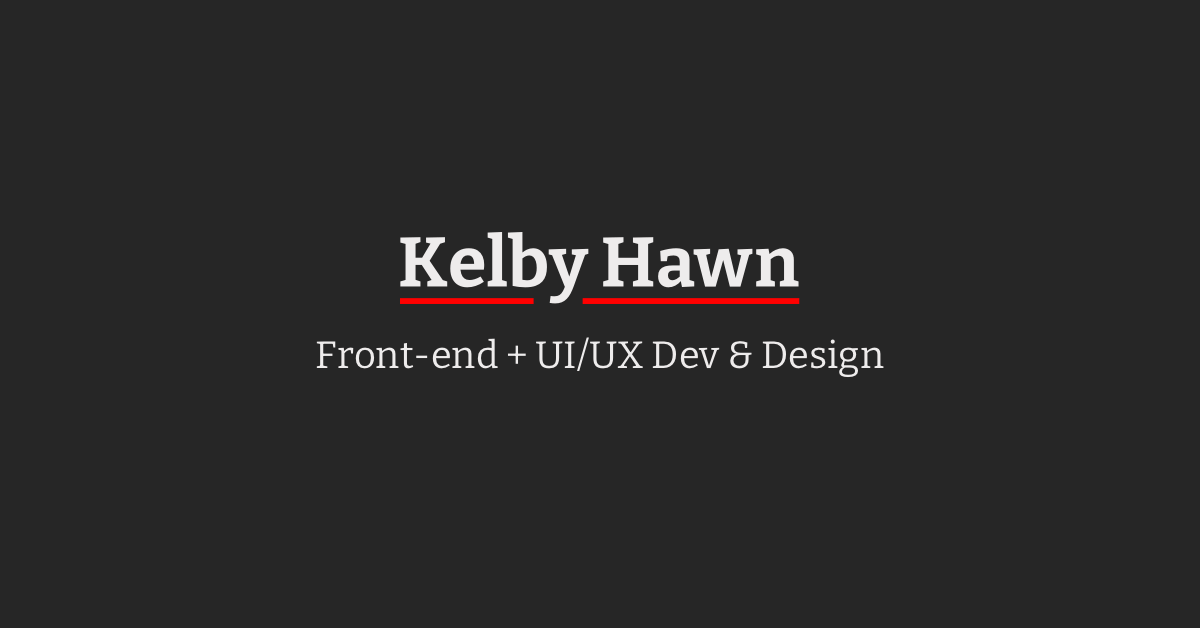
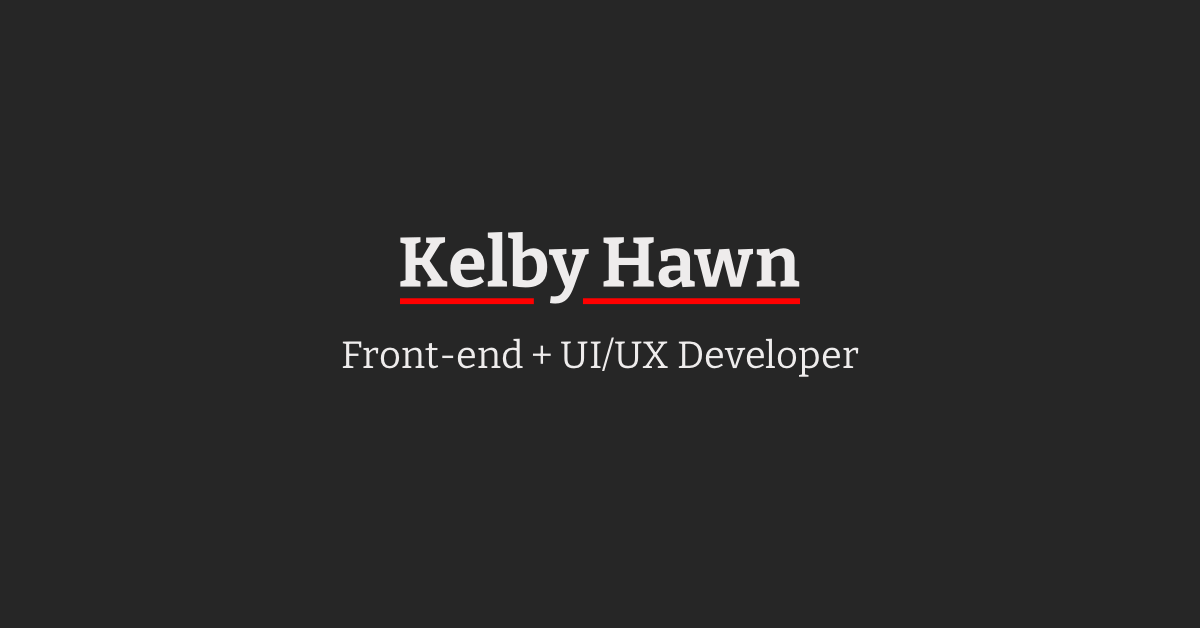
update open graph info

Changed region(s): [[0.2467, 0.5446, 0.74, 0.6051], [0.555, 0.3933, 0.6475, 0.4538]]

diff --git a/index.html b/index.html
@@ -2,7 +2,7 @@
 <html lang="en">
 <head>
   <meta charset="UTF-8">
-  <title>Kelby Hawn | Dev & Design</title>
+  <title>Kelby Hawn | Front-end + UI/UX Developer</title>
   <meta name="description" content="Hi, I'm a front-end + UI/UX developer with a background in product and web design.">
   <meta name="viewport" content="width=device-width, initial-scale=1">
   
@@ -11,17 +11,14 @@
   
   <link rel="icon" type="image/png" href="https://kelbyhawn.com/favicon.png">
         
-  <!-- Facebook Meta Tags -->
+  <!-- Open Graph Tags -->
   <meta property="og:url" content="https://kelbyhawn.com">
   <meta property="og:type" content="website">
-  <meta property="og:title" content="Kelby Hawn | Dev & Design">
+  <meta property="og:title" content="Kelby Hawn | Front-end + UI/UX Developer">
   <meta property="og:description" content="Hi, I'm a front-end + UI/UX developer with a background in product and web design.">
-
-  <!-- Twitter Meta Tags -->
-  <meta property="twitter:domain" content="kelbyhawn.com">
-  <meta property="twitter:url" content="https://kelbyhawn.com">
-  <meta name="twitter:title" content="Kelby Hawn | Dev & Design">
-  <meta name="twitter:description" content="Hi, I'm a front-end + UI/UX developer with a background in product and web design.">
+  <meta property="og:image" content="https://kelbyhawn.com/img/kh-opengraph.png">
+  <meta property="og:image:width" content="1200">
+  <meta property="og:image:height" content="628">
   
   <link rel="preconnect" href="https://fonts.gstatic.com">
   <link href="https://fonts.googleapis.com/css2?family=Bitter:wght@300;400;500;600;700;800&family=Open+Sans:wght@300;400;500;600;700&display=swap" rel="stylesheet">
